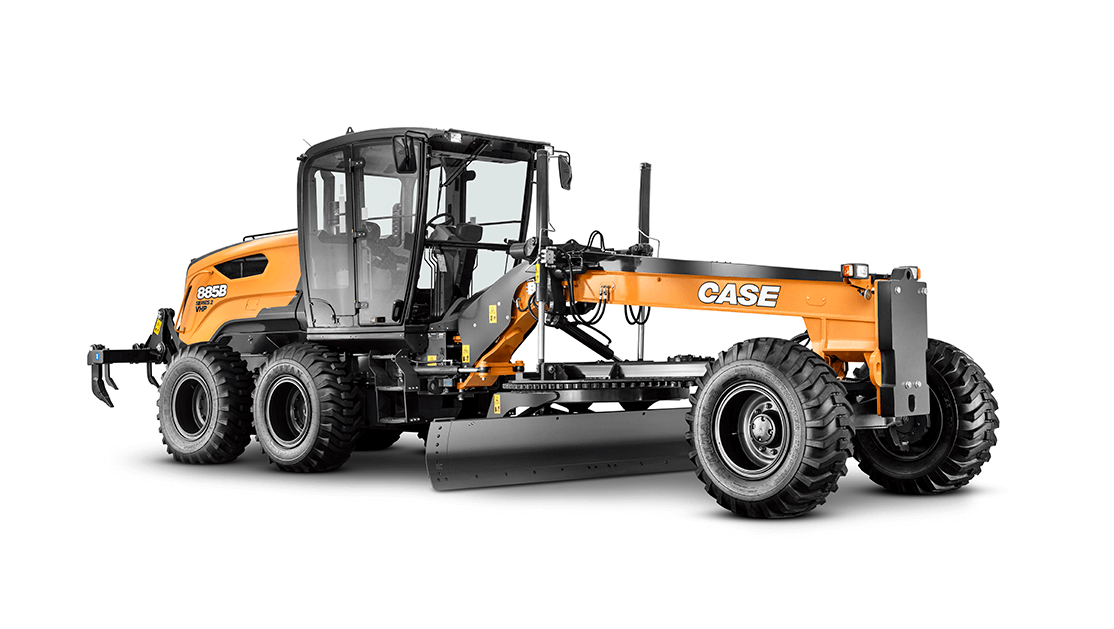
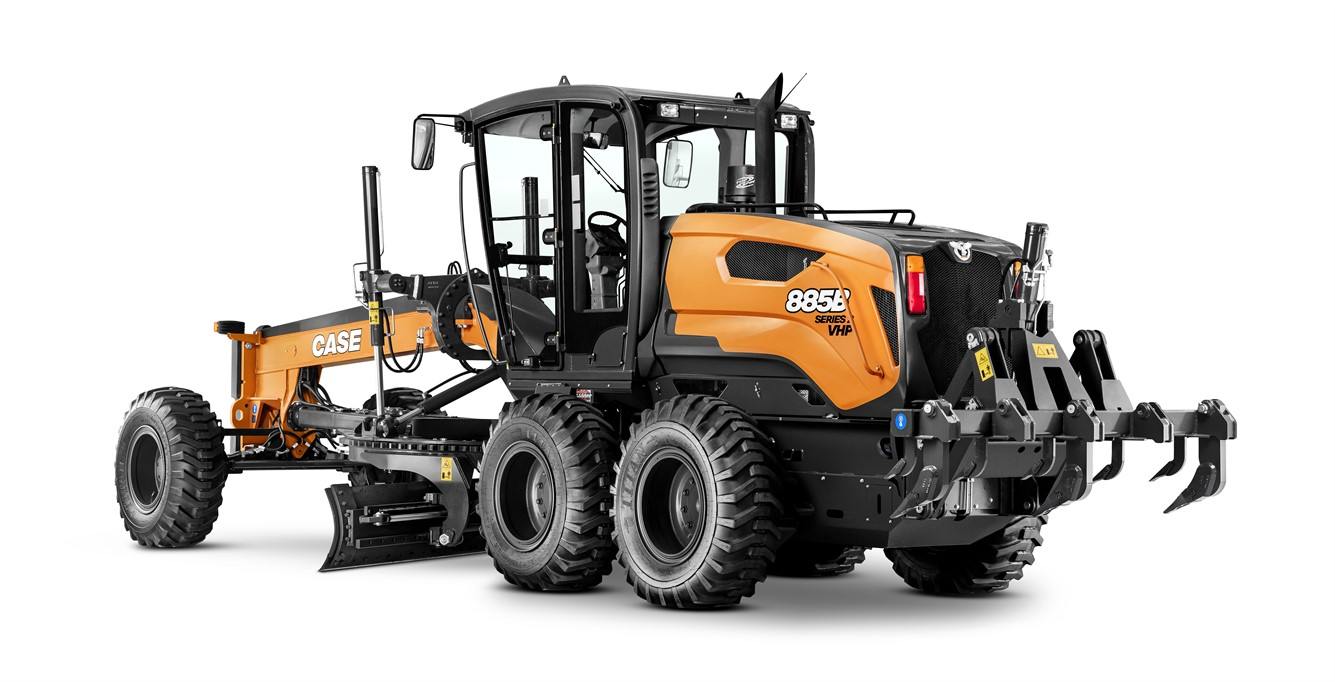
feat(case): fotos oficiais de estúdio para as máquinas de baixa resolução
As fotos do 1150L e do 2050M tinham 460 px de largura e apareciam borradas.
As motoniveladoras 845B e 885B estavam em 1114 px. Substituídas por fotos
oficiais do acervo CASE Brand (CNH), no mesmo ângulo de três quartos que o
site usa.

## Mudanças
| Modelo | Antes | Depois |
|---|---|---|
| 1150L | 460 px | 2400 px (original de 7360) |
| 2050M | 460 px | 2400 px (original de 7360) |
| 845B | 1114 px | 1335 px |
| 885B | 1114 px | 1335 px |

- Foto de origem trocada em `Scrape Case/**/assets`, então o pipeline existente
  cuida do resto: cópia, derivado webp e recorte de fundo
- Recorte refeito com `scripts/case-recortar.py`
- Procedência de cada arquivo registrada em tasks/todo.md

## Testes
- `npm run rebuild:site` ✓ · `verify:dist` ✓ · `launch-gate-smoke` ✓ 7 rotas
- 0 imagens quebradas no dist
- Revisão visual das 4, antes e depois, sobre o fundo escuro do site

diff --git a/tasks/todo.md b/tasks/todo.md
@@ -334,3 +334,22 @@ Elevar o frontend atual de landing visual para uma plataforma comercial premium,
       Todo lead de WhatsApp do site cai neste número; verificado com a variável de CI vazia.
 - [x] `fotos-dynapac/` fora do git (decisão do José, 2026-09-18). Originais re-baixáveis;
       o gerador reusa o WebP versionado quando o original falta (CI/clone limpo).
+
+## Fotos oficiais CASE — rodada 1 (2026-09-20)
+Fonte: CASE Brand (casebrand.com), acervo oficial CNH. Mapeados 839 arquivos nas
+11 linhas; 24 dos 28 modelos têm foto de estúdio disponível.
+
+Aplicado nesta rodada (as 5 máquinas de baixa resolução do site):
+| Modelo | Antes | Depois | Origem |
+|---|---|---|---|
+| 1150L | 460 px | 7360 px (reduzida a 2400) | CCE-IMG-11491 |
+| 2050M | 460 px | 7360 px (reduzida a 2400) | CCE-IMG-11499 |
+| 845B  | 1114 px | 1335 px | CCE-IMG-26411 |
+| 885B  | 1114 px | 1335 px | CCE-IMG-26501 |
+| SR175B | 1024 px | pendente | CCE-IMG-13186/13187/13188 |
+
+- [ ] SR175B: os 3 estúdio do portal não expõem URL de preview; baixar em alta
+      pelo botão da página (o navegador passou a bloquear download automático).
+- [ ] 845B e 885B: existe versão em alta (~9 MB) no portal; hoje entrou o preview
+      de 1335 px, que já supera o anterior. Rebaixar em alta quando possível.
+- [ ] Próximas rodadas: 2ª e 3ª foto por modelo (galeria) e folhetos técnicos em PDF.
